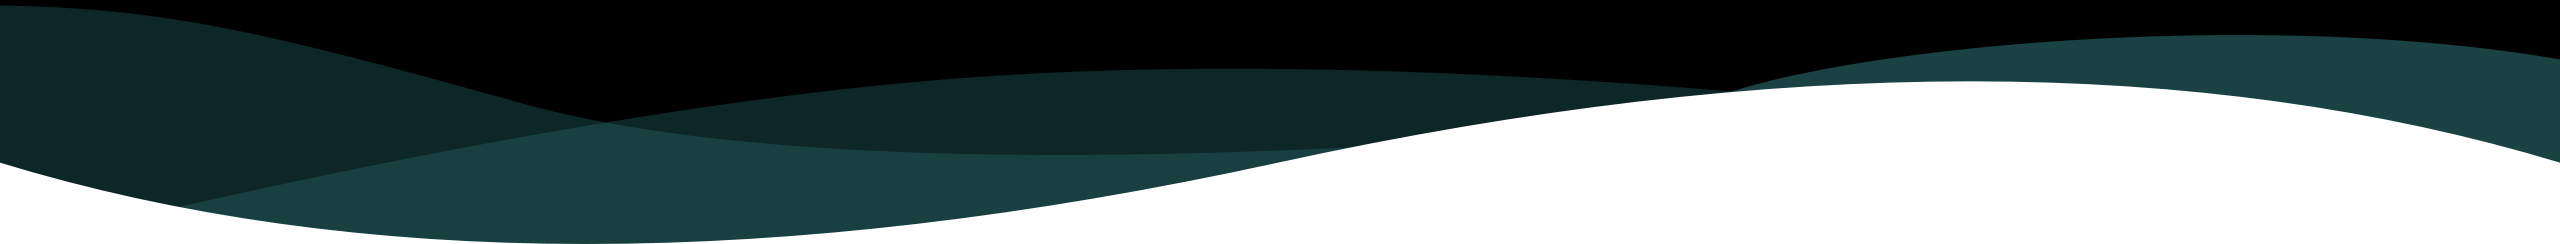
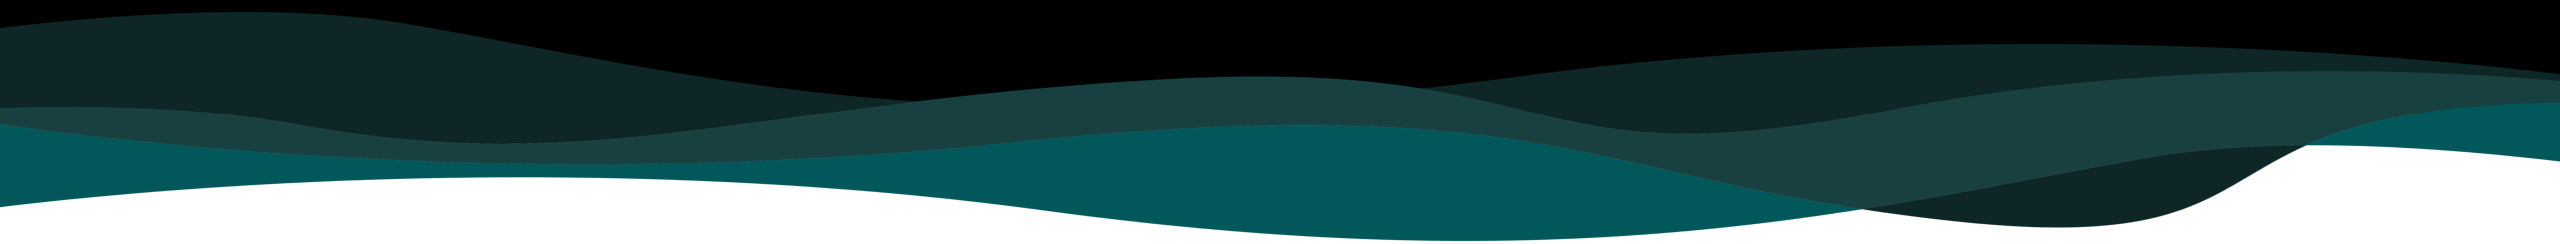
update :

diff --git a/src/app/about/page.js b/src/app/about/page.js
@@ -1,4 +1,5 @@
 "use client";
+import { cn } from "@/lib/utils";
 import Nav from "@/components/Nav";
 import WhatsAppButton from "@/components/WhatsAppButton";
 import Image from "next/image";
@@ -8,17 +9,35 @@ export default function About() {
         <>
             <Nav />
             <main>
-                <section className="min-h-[30vh]"></section>
-                <section className="relative w-full h-[150px] bg-white">
+                <section className="min-h-[35vh] lg:min-h-[50vh] w-full flex justify-center items-center">
                     <Image
-                        src="/wave-bottom.png"
-                        alt="wave-img"
+                        src="/Wave-line.png"
+                        alt="background-wave"
                         fill
-                        className="object-cover"
+                        className="object-cover -z-10 opacity-20"
                         priority
                     />
+                    {/* <div
+                        className={cn(
+                            "absolute inset-0 -z-20",
+                            "[background-size:40px_40px] opacity-50"
+                        )}
+                        style={{
+                            backgroundImage: `linear-gradient(to right, color-mix(in srgb, var(--primary) 30%, transparent) 1px, transparent 1px),
+                          linear-gradient(to bottom, color-mix(in srgb, var(--primary) 30%, transparent) 1px, transparent 1px)`,
+                        }}
+                    /> */}
+
+                    <div className="flex flex-col items-center px-3">
+                        <h1 className="text-3xl md:text-5xl font-bold mb-3 text-gray-900 dark:text-gray-100">
+                            About
+                        </h1>
+                        <p className="font-semibold text-center">
+                            Let’s deepen our introduction — would you like to start?
+                        </p>
+                    </div>
                 </section>
-                <section className="bg-white h-screen"></section>
+                <section className="bg-zinc-900 h-screen"></section>
             </main>
             <WhatsAppButton />
         </>

diff --git a/src/app/providers.jsx b/src/app/providers.jsx
@@ -15,7 +15,7 @@ function Providers({ children }) {
     }
 
     return (
-        <ThemeProvider attribute="class" defaultTheme="system" enableSystem>
+        <ThemeProvider attribute="class" defaultTheme="dark" enableSystem>
             {children}
         </ThemeProvider>
     );
